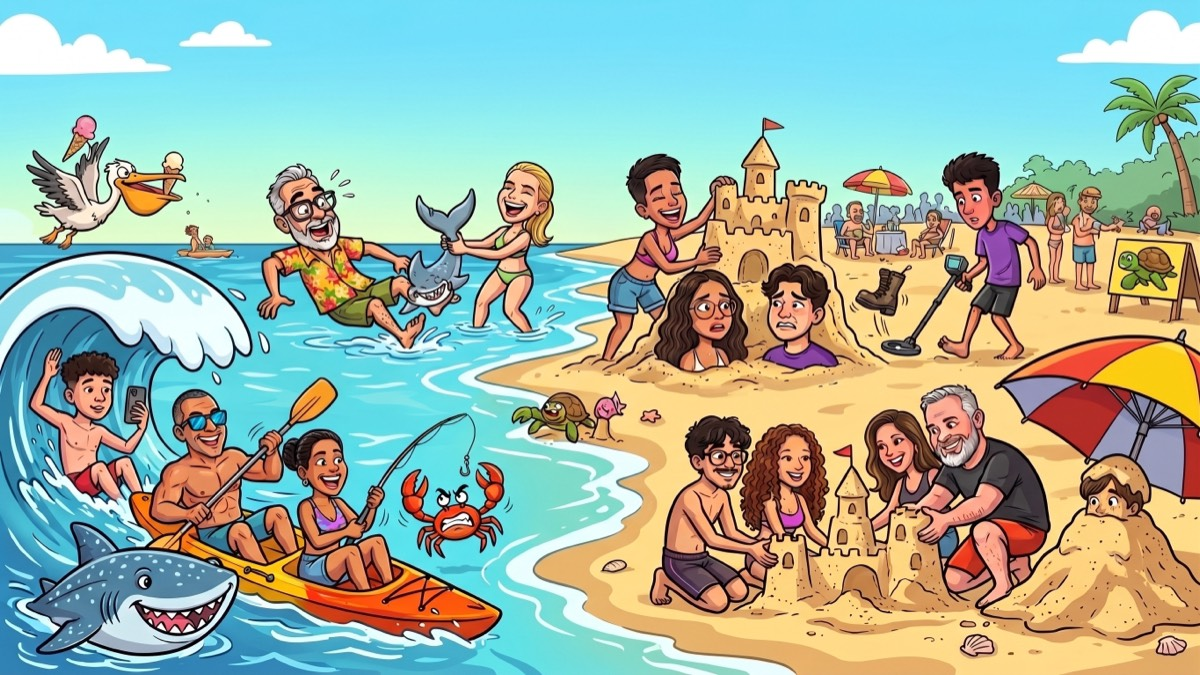
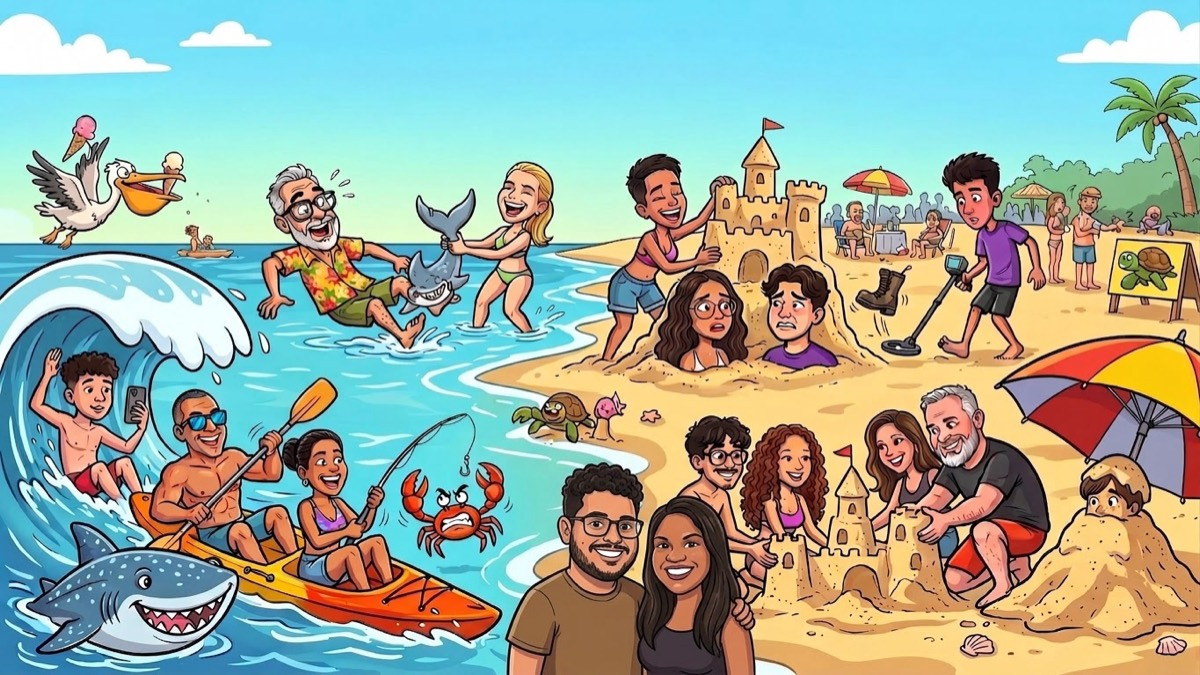
feat: atualiza foto img-topo e miniatura de compartilhamento do WhatsApp

diff --git a/index.html b/index.html
@@ -11,8 +11,8 @@
     <meta property="og:url" content="https://gberbert.github.io/site-viajem-12-out/">
     <meta property="og:title" content="Uma Família Muito Louca | Férias Caóticas no Feriado de 12 de Outubro">
     <meta property="og:description" content="Guia oficial de sobrevivência das Famílias Feliciano, Maia e Berbert para o feriadão de 09/10 a 12/10 saindo de Fonseca, Niterói (CEP 24120-210). 14 destinos hilários com vaquinha a 13 km/l!">
-    <meta property="og:image" content="https://gberbert.github.io/site-viajem-12-out/og-preview.jpg">
-    <meta property="og:image:secure_url" content="https://gberbert.github.io/site-viajem-12-out/og-preview.jpg">
+    <meta property="og:image" content="https://gberbert.github.io/site-viajem-12-out/og-preview.jpg?v=2">
+    <meta property="og:image:secure_url" content="https://gberbert.github.io/site-viajem-12-out/og-preview.jpg?v=2">
     <meta property="og:image:type" content="image/jpeg">
     <meta property="og:image:width" content="1200">
     <meta property="og:image:height" content="675">
@@ -24,14 +24,14 @@
     <meta name="twitter:url" content="https://gberbert.github.io/site-viajem-12-out/">
     <meta name="twitter:title" content="Uma Família Muito Louca | Férias Caóticas no Feriado de 12 de Outubro">
     <meta name="twitter:description" content="Guia oficial de sobrevivência das Famílias Feliciano, Maia e Berbert para o feriadão de 09/10 a 12/10 saindo de Fonseca, Niterói.">
-    <meta name="twitter:image" content="https://gberbert.github.io/site-viajem-12-out/og-preview.jpg">
+    <meta name="twitter:image" content="https://gberbert.github.io/site-viajem-12-out/og-preview.jpg?v=2">
 
     <!-- Favicons & App Icons (Self-Família) -->
     <link rel="icon" type="image/png" sizes="32x32" href="favicon-32x32.png">
     <link rel="icon" type="image/png" sizes="16x16" href="favicon-16x16.png">
     <link rel="apple-touch-icon" sizes="180x180" href="apple-touch-icon.png">
     <link rel="shortcut icon" href="favicon.ico">
-    <link rel="image_src" href="https://gberbert.github.io/site-viajem-12-out/og-preview.jpg">
+    <link rel="image_src" href="https://gberbert.github.io/site-viajem-12-out/og-preview.jpg?v=2">
     <!-- Google Fonts -->
     <link rel="preconnect" href="https://fonts.googleapis.com">
     <link rel="preconnect" href="https://fonts.gstatic.com" crossorigin>
@@ -1601,7 +1601,7 @@
                     <span>🏖 FÉRIAS CAÓTICAS: AS FAMÍLIAS FELICIANO, MAIA E BERBERT NO LITORAL!</span>
                 </div>
                 
-                <img src="img-topo.jpeg?v=2" alt="Férias Caóticas: Famílias Feliciano, Maia e Berbert no Litoral" class="banner-image">
+                <img src="img-topo.jpeg?v=3" alt="Férias Caóticas: Famílias Feliciano, Maia e Berbert no Litoral" class="banner-image">
 
                 <div class="banner-glass-bar">
                     <div class="family-tags">
@@ -1844,7 +1844,7 @@
     <div class="lightbox-modal" id="lightbox-modal" onclick="closeImageLightbox()">
         <button class="modal-close-btn" onclick="closeImageLightbox()" title="Fechar" style="top: 24px; right: 24px;">&times;</button>
         <div class="lightbox-content" onclick="event.stopPropagation()">
-            <img src="img-topo.jpeg?v=2" alt="Ilustração Oficial das Famílias Feliciano, Maia e Berbert" class="lightbox-img">
+            <img src="img-topo.jpeg?v=3" alt="Ilustração Oficial das Famílias Feliciano, Maia e Berbert" class="lightbox-img">
             <div class="lightbox-caption">
                 🏖 Férias Caóticas: As Famílias Feliciano, Maia e Berbert no Litoral!
             </div>
